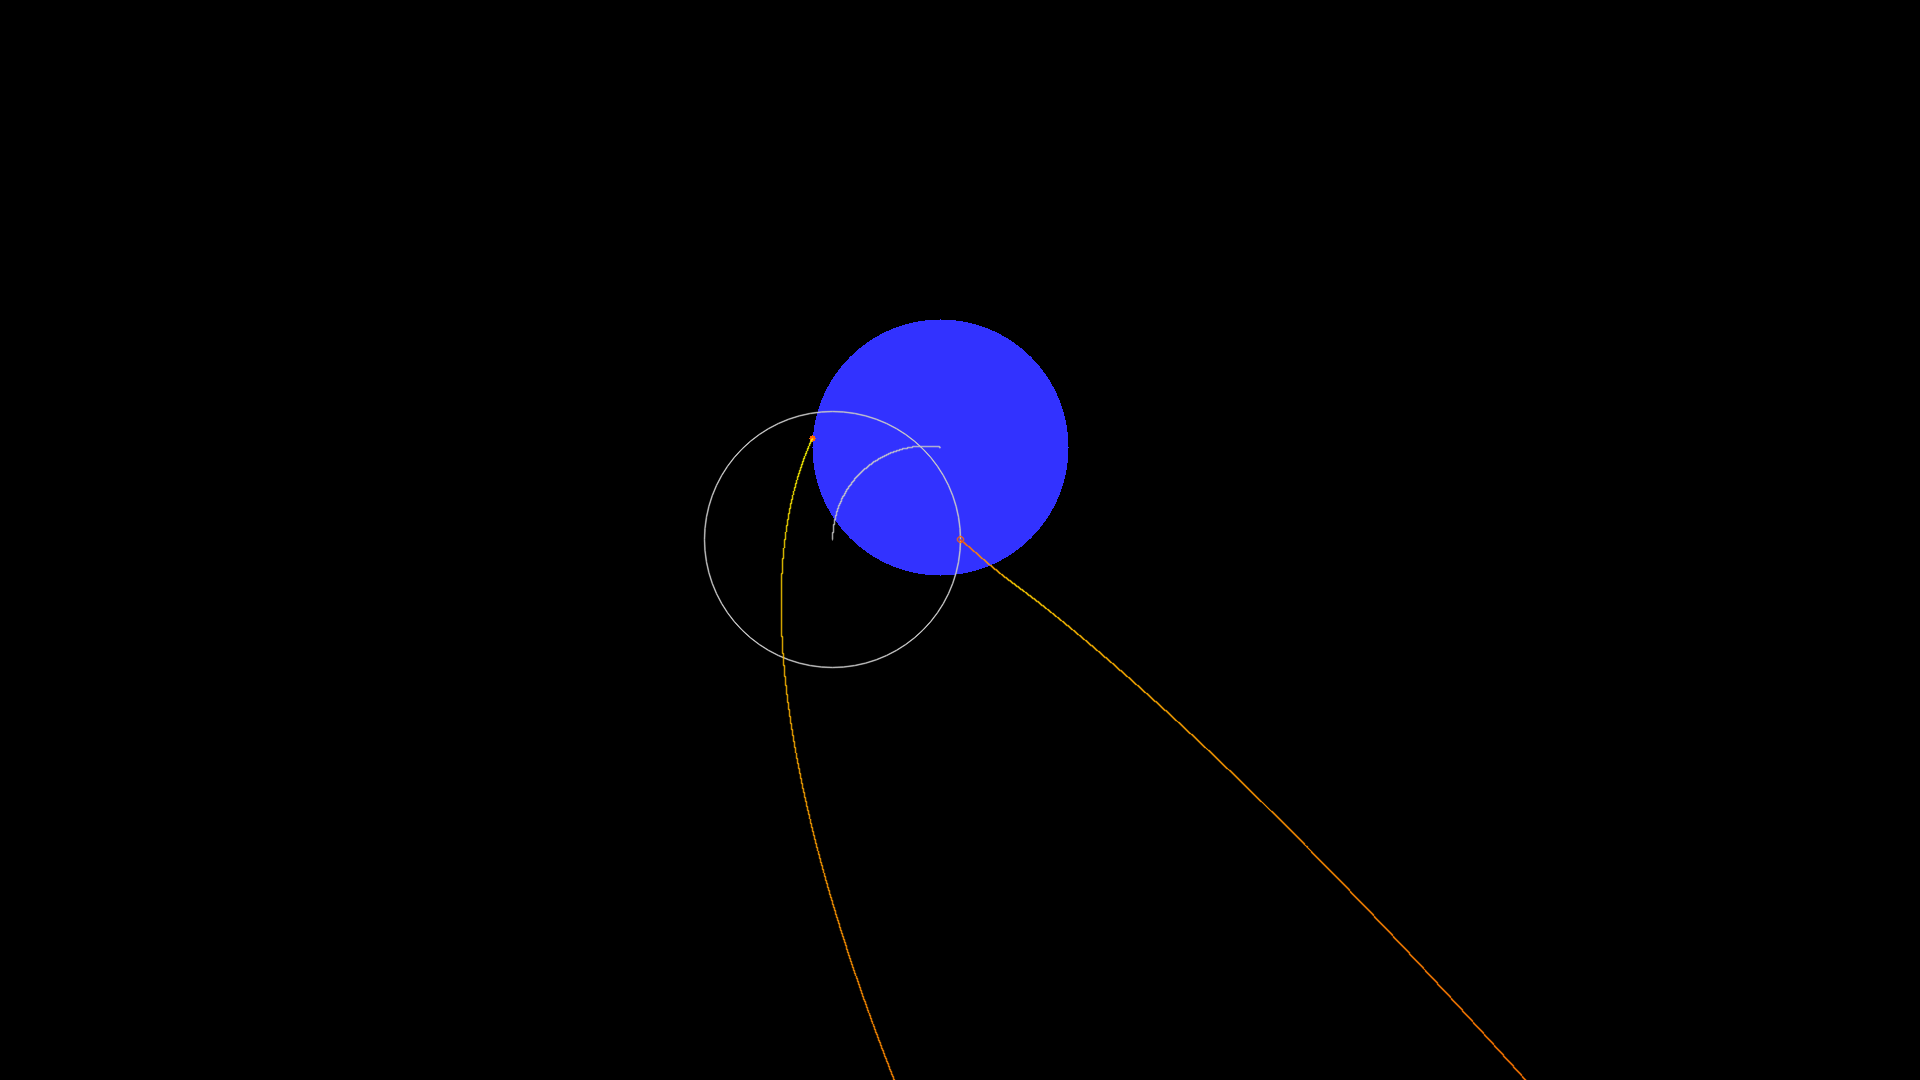
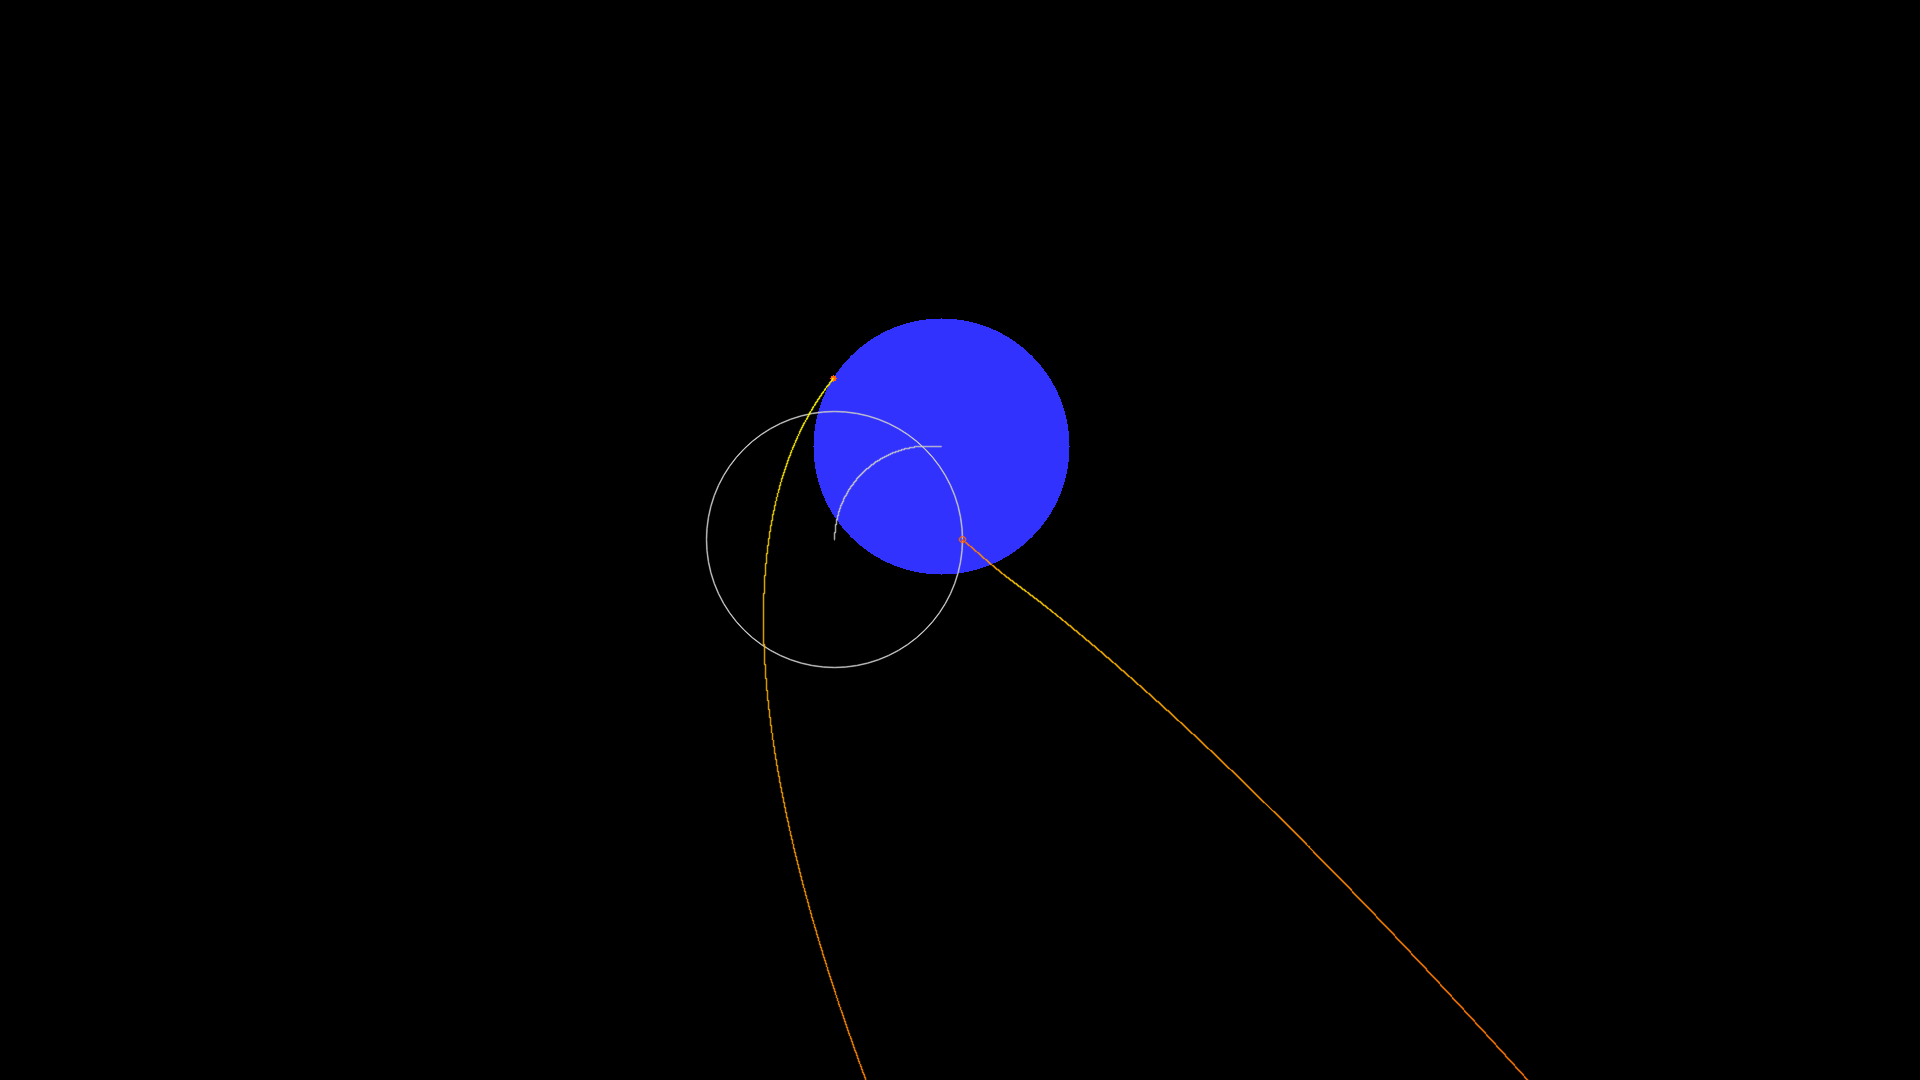
fix integrator bug

diff --git a/src/froggy.cpp b/src/froggy.cpp
@@ -232,15 +232,16 @@ void leap_frog( std::array< Body, N >& bodies, const double initial_rocket_mass,
                                                                 : Eigen::Vector2d{ 0., 0. } );
         half_step[ k ].coordinates.v = bodies[ k ].coordinates.v + acc * 0.5 * dt;
         half_step[ k ].coordinates.x = bodies[ k ].coordinates.x + half_step[ k ].coordinates.v * 0.5 * dt;
+        bodies[ k ].coordinates.x    = half_step[ k ].coordinates.x + half_step[ k ].coordinates.v * 0.5 * dt;
     }
 
-    g = gravitational_acceleration( half_step );
+    g = gravitational_acceleration( bodies );
 
     for ( unsigned k = 0; k < N; ++k ) {
-        bodies[ k ].coordinates.x = half_step[ k ].coordinates.x + half_step[ k ].coordinates.v * 0.5 * dt;
-        acc = g[ k ] + ( ( k == 0 && t < thrust_shutdown_time ) ? thrust( initial_rocket_mass, rocket_launch_tilt,
-                                                                          stages, bodies[ 0 ], bodies[ 2 ], t )
-                                                                : Eigen::Vector2d{ 0., 0. } );
+        acc = g[ k ] +
+              ( ( k == 0 && t + dt < thrust_shutdown_time )
+                        ? thrust( initial_rocket_mass, rocket_launch_tilt, stages, bodies[ 0 ], bodies[ 2 ], t + dt )
+                        : Eigen::Vector2d{ 0., 0. } );
         bodies[ k ].coordinates.v = half_step[ k ].coordinates.v + acc * 0.5 * dt;
         bodies[ k ].coordinates.a = acc;
     }

diff --git a/README.md b/README.md
@@ -29,20 +29,20 @@ A moon shot could look like this. The Earth is blue, the Rocket is orange and th
 
 Some flight stats are printed to std::out.
 ```
-[2020-04-23 20:01:11.645] [info] Starting simulation ...
-[2020-04-23 20:01:19.463] [info] Rendering orbits ...
-[2020-04-23 20:01:19.463] [info] Please find the diagram at /home/.../froggy/build/moon_shot.png
-[2020-04-23 20:01:19.495] [info] Flight stats:
-Iterations               : 64334701 (8195503.312/s)
-Simulation duration      : 7.850s
-Flight duration          : 643347.01s (7.45d)
-Lowest velocity          : 336.46m/s (1211.26km/h)
-Hightest velocity        : 11111.18m/s (40000.25km/h)
+[2020-04-29 15:53:22.243] [info] Starting simulation ...
+[2020-04-29 15:53:29.437] [info] Rendering orbits ...
+[2020-04-29 15:53:29.437] [info] Please find the diagram at /home/.../froggy/build/moon_shot.png
+[2020-04-29 15:53:29.706] [info] Flight stats:
+Iterations               : 64026513 (8580342.133/s)
+Simulation duration      : 7.462s
+Flight duration          : 640265.13s (7.41d)
+Lowest velocity          : 336.75m/s (1212.29km/h)
+Hightest velocity        : 11114.93m/s (40013.76km/h)
 Lowest acceleration      : 0.00m/s^2 (0.00g)
 Hightest acceleration    : 33.20m/s^2 (3.38g)
-Rocket trajectory length : 794408.553km
-Earth trajectory length  : 8009.273km
-Moon trajectory length   : 650994.930km
+Rocket trajectory length : 798481.650km
+Earth trajectory length  : 7970.830km
+Moon trajectory length   : 647870.251km
 ```
 
 This picture shows take off and landing of the Rocket.
